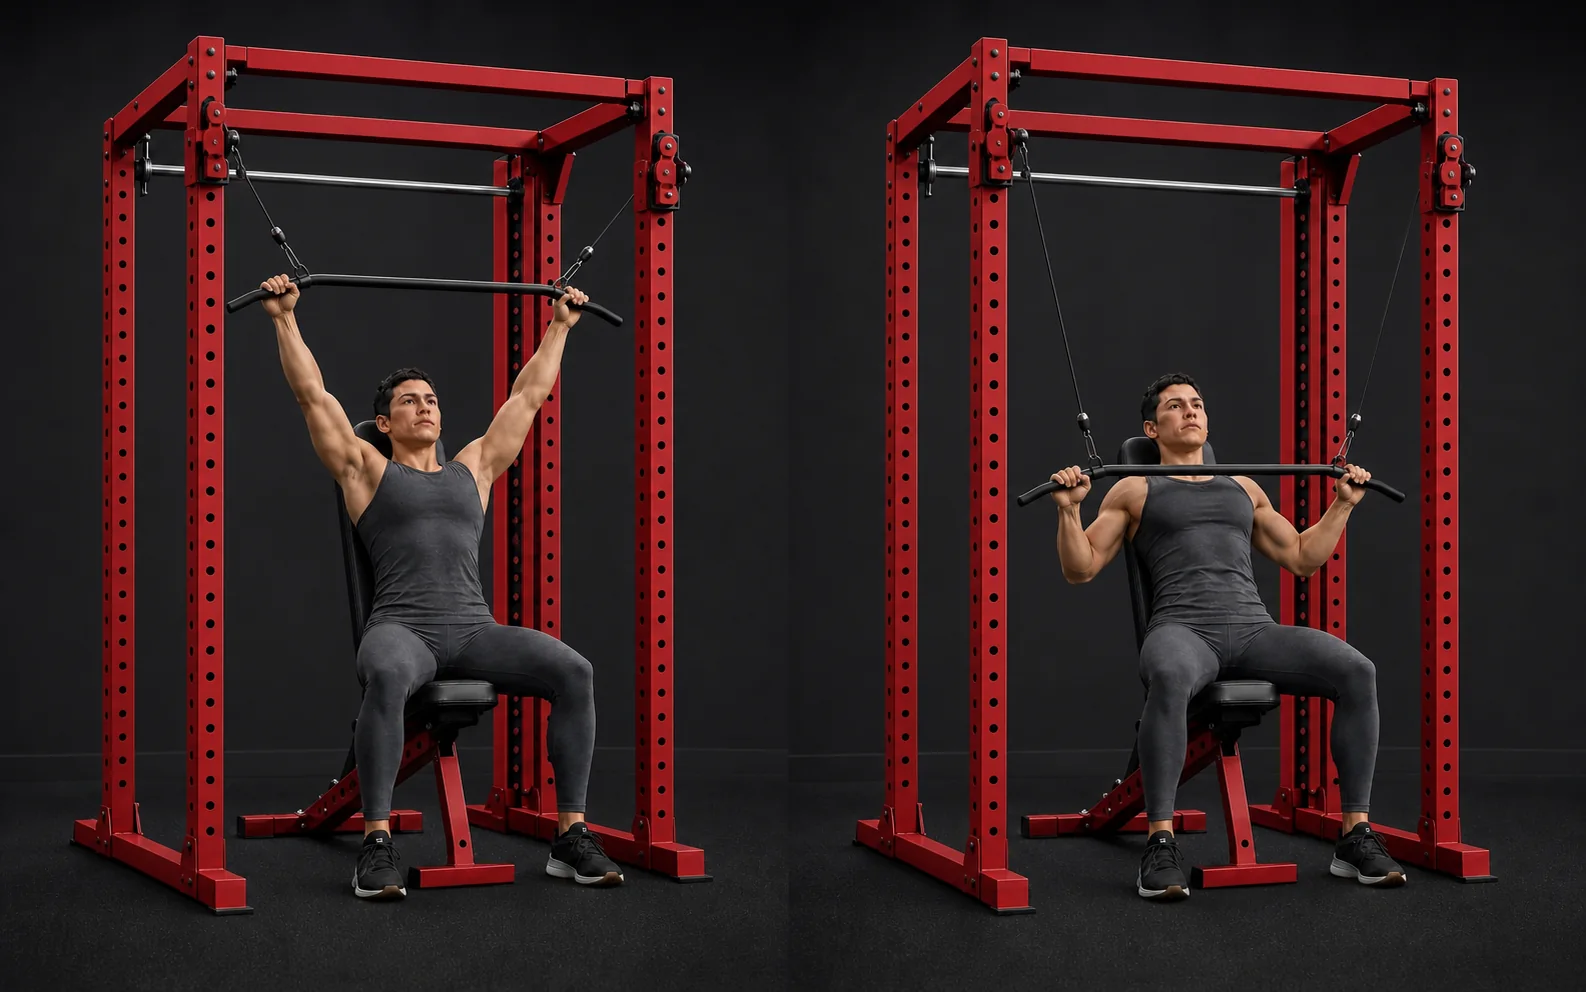
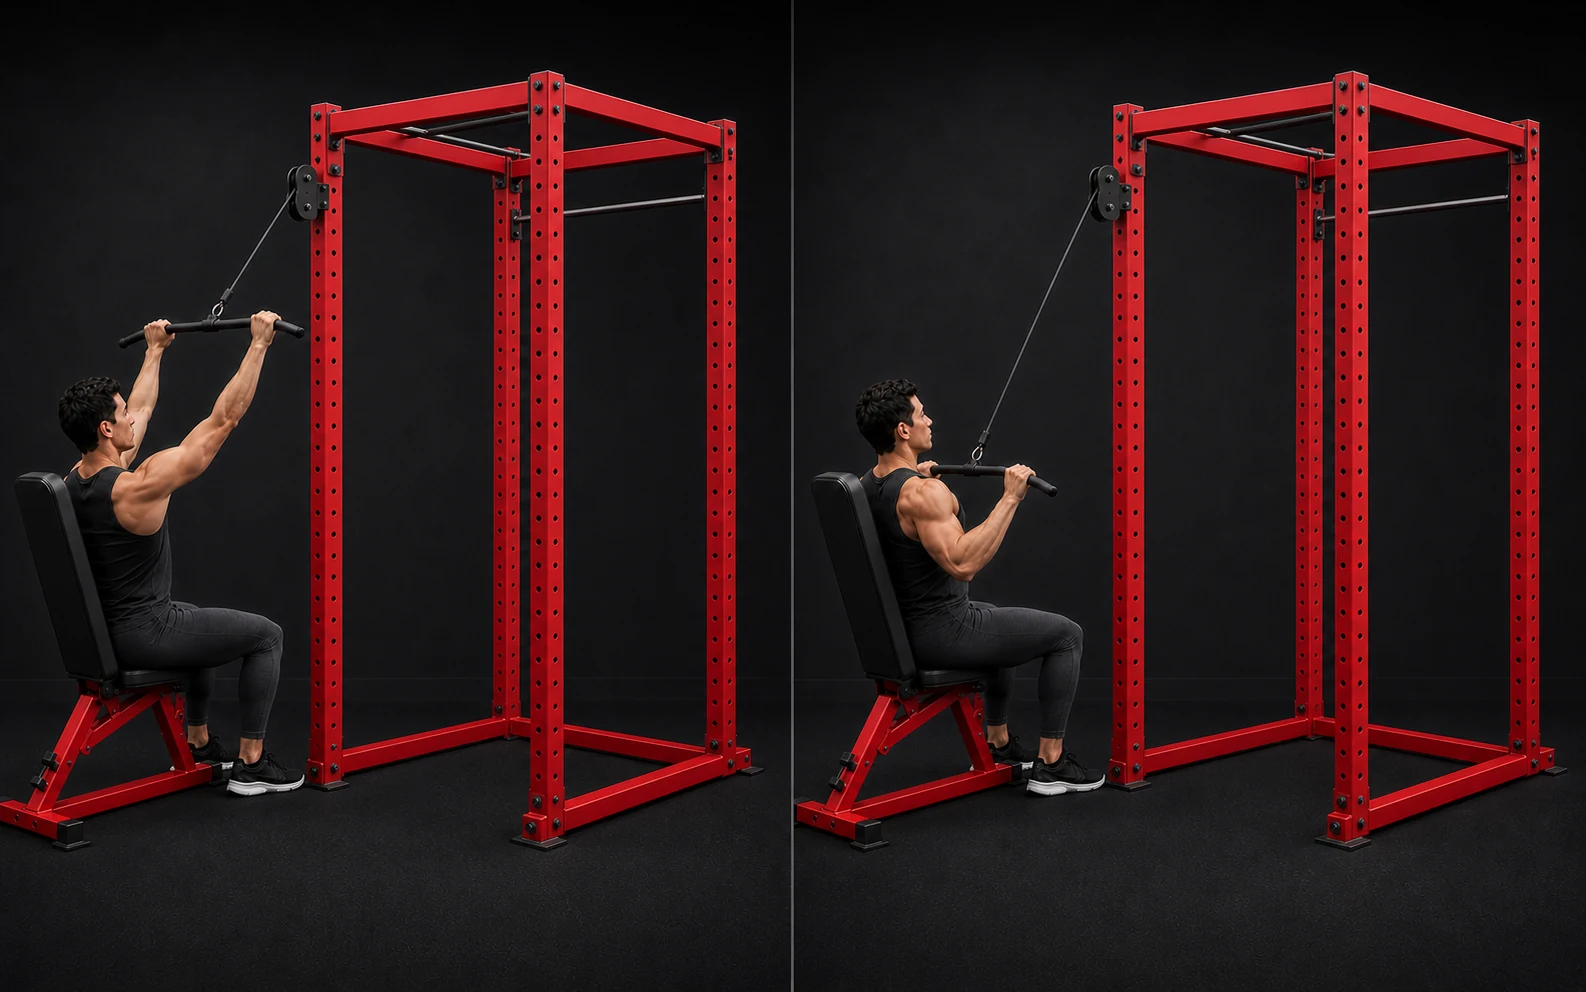
feat: publish approved equipment updates

diff --git a/app.js b/app.js
@@ -143,9 +143,20 @@ function exerciseTeachingMarkup(ex){
 
 
 const data=window.WORKOUT_DATA;
+const smithSquatTemplate=window.SUBSTITUTION_DATA?.["smith-machine-squat"];
+if(smithSquatTemplate){
+  smithSquatTemplate.setup=smithSquatTemplate.setup.map(item=>
+    item.includes("no bumper plates required")
+      ?"Load the Smith bar with matched bumper plates only after completing controlled warm-up reps"
+      :item
+  );
+  smithSquatTemplate.why="Trains the legs with a stable Smith path and supports progressive loading with the available bumper plates.";
+  smithSquatTemplate.weightRecommendation="Begin with the empty Smith bar, then add matched plates conservatively while every rep remains smooth and controlled.";
+  smithSquatTemplate.equipmentNote="Uses the RitFit M1 Smith bar with optional matched 10–45 lb bumper plates.";
+}
 /* Versioned storage boundary. Migrations must remain ordered and idempotent. */
 const ROAD12_STORAGE_KEY="road12v5";
-const ROAD12_SCHEMA_VERSION=3;
+const ROAD12_SCHEMA_VERSION=4;
 const ROAD12_MIGRATIONS=[
   {
     version:1,
@@ -175,6 +186,14 @@ const ROAD12_MIGRATIONS=[
         localDateKey()
       );
       value.schemaVersion=3;
+      return value;
+    }
+  },
+  {
+    version:4,
+    up(value){
+      value.equipment=Object.assign({},value.equipment||{}, {bumperPlates:true});
+      value.schemaVersion=4;
       return value;
     }
   }
@@ -228,7 +247,7 @@ state.equipment=Object.assign({
   treadmill:true,
   rower:true,
   kickrCore:true,
-  bumperPlates:false,
+  bumperPlates:true,
   dumbbells:false,
   olympicBarbell:false
 },state.equipment||{});
@@ -756,7 +775,7 @@ function equipment(){
   ["treadmill","🏃","iFIT treadmill","Used for warm-ups, cooldowns and cardio."],
   ["rower","🚣","iFIT rower","Available for technique and cardio sessions."],
   ["kickrCore","🚴","Wahoo KICKR CORE","Available for cycling sessions."],
-  ["bumperPlates","⚫","Olympic bumper plates","Keep off until the plates arrive and are ready to use."],
+  ["bumperPlates","⚫","Olympic bumper plates","Available in weights from 10–45 lb for Smith-machine loading."],
   ["dumbbells","🔩","Dumbbells / kettlebells","Keep off unless you have usable free weights."],
   ["olympicBarbell","🏋♂","Free Olympic barbell","This refers to free-barbell work, not the M1 Smith bar."]
  ];

diff --git a/scripts/validate-foundation.js b/scripts/validate-foundation.js
@@ -88,6 +88,19 @@ if (incompatibleKeys.length) {
   fail(`unexpected versioned storage key(s): ${incompatibleKeys.join(", ")}`);
 }
 
+if (!/const ROAD12_SCHEMA_VERSION=4;/.test(app)) {
+  fail("app.js does not expose the bumper-plate equipment migration schema");
+}
+if (!/version:4,[\s\S]*?bumperPlates:true[\s\S]*?value\.schemaVersion=4;/.test(app)) {
+  fail("app.js does not migrate existing road12v5 profiles to available bumper plates");
+}
+if (!/bumperPlates:true,/.test(app)) {
+  fail("app.js does not enable bumper plates for new profiles");
+}
+if (!/matched 10–45 lb bumper plates/.test(app)) {
+  fail("app.js does not document the available Smith-machine bumper-plate range");
+}
+
 if (failures.length) {
   console.error("Foundation validation failed:");
   for (const message of failures) console.error(`- ${message}`);

diff --git a/scripts/test-offline-pwa.js b/scripts/test-offline-pwa.js
@@ -121,7 +121,7 @@ async function dispatchFetch(url) {
 
 (async () => {
   const cacheName = context.self.ROAD12_META.serviceWorkerCache;
-  assert.strictEqual(cacheName, "road12-v13-2-20-shell");
+  assert.strictEqual(cacheName, "road12-v13-2-22-shell");
 
   await dispatchExtendable("install");
   assert.strictEqual(skipWaitingCalled, true, "new worker must activate promptly");

diff --git a/app-meta.js b/app-meta.js
@@ -1,9 +1,9 @@
 (function (root) {
   root.ROAD12_META = Object.freeze({
     version: "13.2.0",
-    build: "2026.08.03.5",
+    build: "2026.08.03.7",
     lastUpdated: "August 3, 2026",
     gitCommit: null,
-    serviceWorkerCache: "road12-v13-2-20-shell"
+    serviceWorkerCache: "road12-v13-2-22-shell"
   });
 })(typeof self !== "undefined" ? self : window);

diff --git a/sw.js b/sw.js
@@ -1,5 +1,5 @@
 /* Keep this query aligned with app-meta.js so Safari cannot reuse stale imported metadata. */
-importScripts("./app-meta.js?build=2026.08.03.5");
+importScripts("./app-meta.js?build=2026.08.03.7");
 
 const CACHE=self.ROAD12_META.serviceWorkerCache;
 const CACHE_PREFIX="road12-";

diff --git a/docs/CHANGELOG.md b/docs/CHANGELOG.md
@@ -23,10 +23,11 @@ The format follows [Keep a Changelog](https://keepachangelog.com/en/1.1.0/), and
 - Offline two-position Cable Hammer Curl artwork using a rope on the low inner front-left pulley of the red Smith cage.
 - Offline Arm Circles artwork showing the standing posture and circular arm path.
 - Offline two-position Bodyweight Squat artwork showing a tall start and controlled parallel-depth squat.
-- Offline two-position Lat Pulldown artwork using both high front-post pulleys on the red Smith cage and a safe upper-chest finish.
+- Offline two-position Lat Pulldown artwork showing the complete red Smith cage, one high front-post pulley, a center-connected cable, and a safe upper-chest finish.
 
 ### Changed
 
+- Bumper plates are now enabled for existing and new installations, reflecting the available 10–45 lb plate range for Smith-machine loading.
 - Isolated pure recovery scheduling rules in a testable browser module without changing stored data.
 - Calendar cells now announce both workout status and workout type to assistive technology.
 - Calendar and recovery dialogs now focus their heading, isolate background controls, support Escape, and return focus to their invoking control.
@@ -53,6 +54,8 @@ The format follows [Keep a Changelog](https://keepachangelog.com/en/1.1.0/), and
 - Advanced the maintenance build to `2026.08.03.3` and rotated the offline shell cache for the Bodyweight Squat visual guide.
 - Advanced the maintenance build to `2026.08.03.4` and rotated the offline shell cache for corrected Full Body A workout ordering.
 - Advanced the maintenance build to `2026.08.03.5` and rotated the offline shell cache for the Lat Pulldown visual guide.
+- Advanced the maintenance build to `2026.08.03.6` and rotated the offline shell cache for the approved full-cage Lat Pulldown artwork.
+- Advanced the maintenance build to `2026.08.03.7` and rotated the offline shell cache for the updated equipment availability.
 - Replaced developer-facing missing-media copy with concise coached-instruction guidance.
 
 ### Fixed

diff --git a/docs/PROJECT_CONTEXT.md b/docs/PROJECT_CONTEXT.md
@@ -6,9 +6,9 @@ Read this file at the beginning of every Codex or engineering session. It is the
 
 - Product: Road to 12%
 - Version: 13.2.0
-- Build: 2026.08.03.5
+- Build: 2026.08.03.7
 - Last updated: August 3, 2026
-- Service Worker cache: `road12-v13-2-20-shell`
+- Service Worker cache: `road12-v13-2-22-shell`
 - Runtime: static, client-only, offline-first PWA
 - Primary storage key: `road12v5`
 
@@ -83,11 +83,14 @@ See `CODEX_TASKS.md` for priority and acceptance detail.
 - Cooldown exercises always sort after all working blocks in every strength workout.
 - Primary buttons are full-width inside their content container.
 - App-created exercise illustrations are identified as posture illustrations; written setup and movement cues remain authoritative.
+- Exercise artwork is previewed for user approval before it replaces an application asset; the approved Lat Pulldown guide shows the full cage with one center-connected cable on the facing front post.
+- Olympic bumper plates from 10–45 lb are available and enabled; existing Smith-machine squat, hinge, split-squat, and calf-raise programming may use progressive added plate weight.
 
 ## Important implementation constraints
 
 - Preserve existing workout history and `road12v5` compatibility.
 - Migrations must be additive, ordered, and idempotent.
+- Equipment migration v4 enables the newly available bumper plates without changing completed workout snapshots.
 - Do not overwrite `plannedDate`.
 - Do not shift rest days or reorder completed sessions.
 - Do not make network access a requirement for core workouts.
